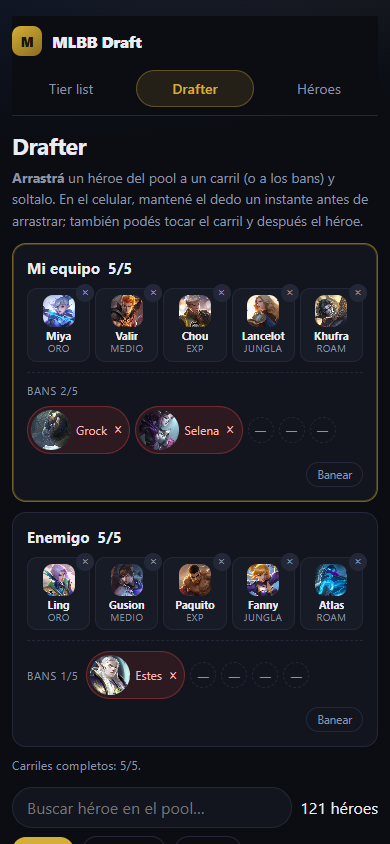
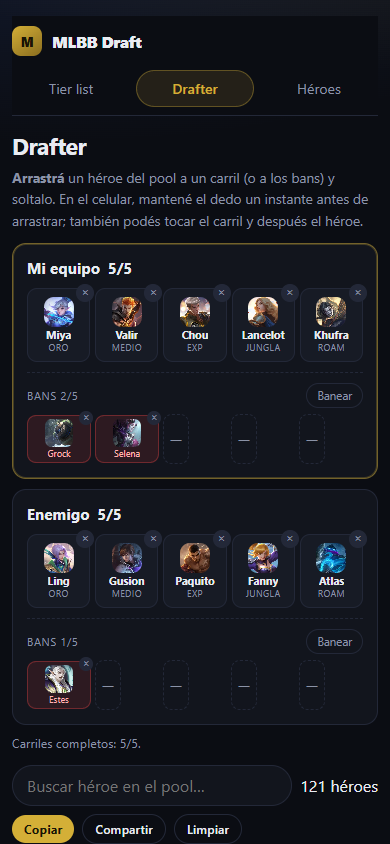
drafter: bans en una fila fija y slots que no cortan el nombre
- Los bans se acomodaban en varias filas y estiraban la tarjeta del equipo
  (empujando al enemigo hacia abajo). Ahora son una grilla fija de 5: la fila
  mide 50 px con 0, 2 o 5 bans y las dos tarjetas quedan alineadas.
- El boton Banear pasa a la cabecera de la seccion, al lado del contador.
- Slots de 68 px (74 en mobile) con avatar de 30: antes el nombre y el carril
  no entraban y se veian cortados.
- Verificado con 5 bans por equipo: alto de la fila 50 px y del equipo 230 px,
  y arrastrar al carril y a los bans sigue funcionando.

diff --git a/assets/style.css b/assets/style.css
@@ -466,3 +466,48 @@ body.arrastrando .bans-lista { border-color: rgba(212, 175, 55, 0.4); background
   .slot.sobre { transform: none; }
   .ficha:hover { transform: none; }
 }
+
+/* ---------- bans en grilla fija (no estiran la tarjeta) ---------- */
+.bans {
+  display: flex; flex-direction: column; align-items: stretch; gap: 6px;
+  margin-top: 10px; padding-top: 10px; border-top: 1px dashed var(--borde);
+}
+.bans-cabecera { display: flex; align-items: center; justify-content: space-between; gap: 8px; }
+.bans-lista {
+  display: grid; grid-template-columns: repeat(5, minmax(0, 1fr)); gap: 4px;
+  min-height: 50px;
+}
+.ban {
+  position: relative; display: grid; justify-items: center; align-content: center; gap: 2px;
+  padding: 3px 2px; border-radius: 9px; background: rgba(239, 68, 68, 0.12);
+  border: 1px solid rgba(239, 68, 68, 0.35); color: #ffb4b4; min-width: 0;
+}
+.ban img { width: 26px; height: 26px; border-radius: 7px; }
+.ban .ban-nombre {
+  font-size: 0.56rem; line-height: 1.1; max-width: 100%; text-align: center;
+  overflow: hidden; text-overflow: ellipsis; white-space: nowrap;
+}
+.ban .quitar-ban {
+  position: absolute; top: -5px; right: -3px; width: 14px; height: 14px;
+  display: grid; place-items: center; padding: 0; border-radius: 50%;
+  background: #232838; border: 1px solid var(--borde); color: var(--apagado);
+  font-size: 0.6rem; line-height: 1; cursor: pointer;
+}
+.ban .quitar-ban:hover { background: #b91c1c; border-color: #b91c1c; color: #fff; }
+.ban-vacio {
+  display: grid; place-items: center; min-height: 50px; border-radius: 9px;
+  border: 1px dashed var(--borde); color: var(--apagado); font-size: 0.7rem;
+}
+
+/* Slots: el contenido entraba justo y cortaba el nombre. */
+.slot { min-height: 68px; padding: 5px 4px; gap: 2px; }
+.slot .heroe-avatar { width: 30px; height: 30px; }
+.slot .slot-texto strong { font-size: 0.68rem; }
+.slot .carril { font-size: 0.55rem; }
+.slot .slot-hint { font-size: 0.52rem; line-height: 1.1; }
+
+@media (max-width: 680px) {
+  .slot { min-height: 74px; }
+  .slot .heroe-avatar { width: 30px; height: 30px; }
+  .ban img { width: 28px; height: 28px; }
+}

diff --git a/index.html b/index.html
@@ -71,10 +71,12 @@
           <h3>Mi equipo <span class="meta" id="conteo-alido">0/5</span></h3>
           <div class="slots" id="slots-alido"></div>
           <div class="bans">
-            <span class="bans-rotulo">Bans <span class="meta" id="conteo-bans-alido">0/5</span></span>
+            <div class="bans-cabecera">
+              <span class="bans-rotulo">Bans <span class="meta" id="conteo-bans-alido">0/5</span></span>
+              <button class="boton-ban" type="button" data-banear="alido" aria-pressed="false"
+                title="Tocá y después un héroe del pool para banearlo">Banear</button>
+            </div>
             <div class="bans-lista" id="bans-alido"></div>
-            <button class="boton-ban" type="button" data-banear="alido" aria-pressed="false"
-              title="Tocá y después un héroe del pool para banearlo">Banear</button>
           </div>
         </article>
 
@@ -82,10 +84,12 @@
           <h3>Enemigo <span class="meta" id="conteo-enemigo">0/5</span></h3>
           <div class="slots" id="slots-enemigo"></div>
           <div class="bans">
-            <span class="bans-rotulo">Bans <span class="meta" id="conteo-bans-enemigo">0/5</span></span>
+            <div class="bans-cabecera">
+              <span class="bans-rotulo">Bans <span class="meta" id="conteo-bans-enemigo">0/5</span></span>
+              <button class="boton-ban" type="button" data-banear="enemigo" aria-pressed="false"
+                title="Tocá y después un héroe del pool para banearlo">Banear</button>
+            </div>
             <div class="bans-lista" id="bans-enemigo"></div>
-            <button class="boton-ban" type="button" data-banear="enemigo" aria-pressed="false"
-              title="Tocá y después un héroe del pool para banearlo">Banear</button>
           </div>
         </article>
 
